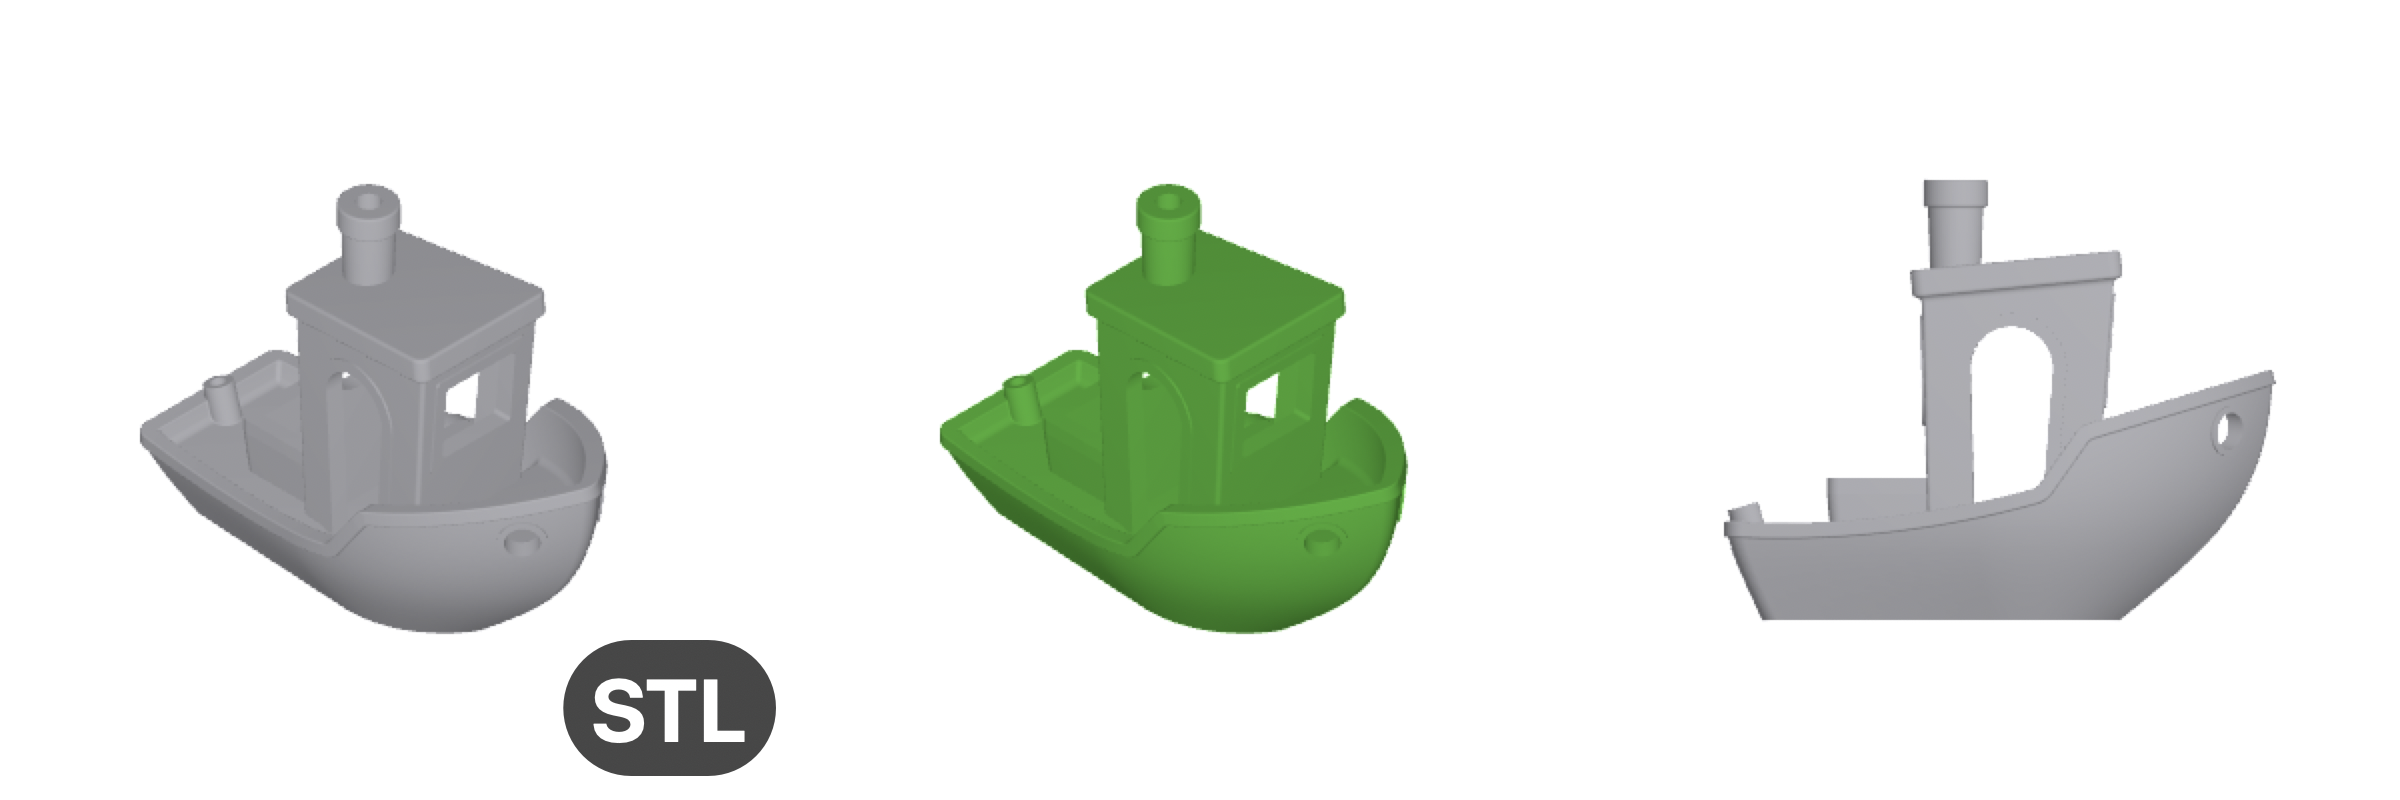
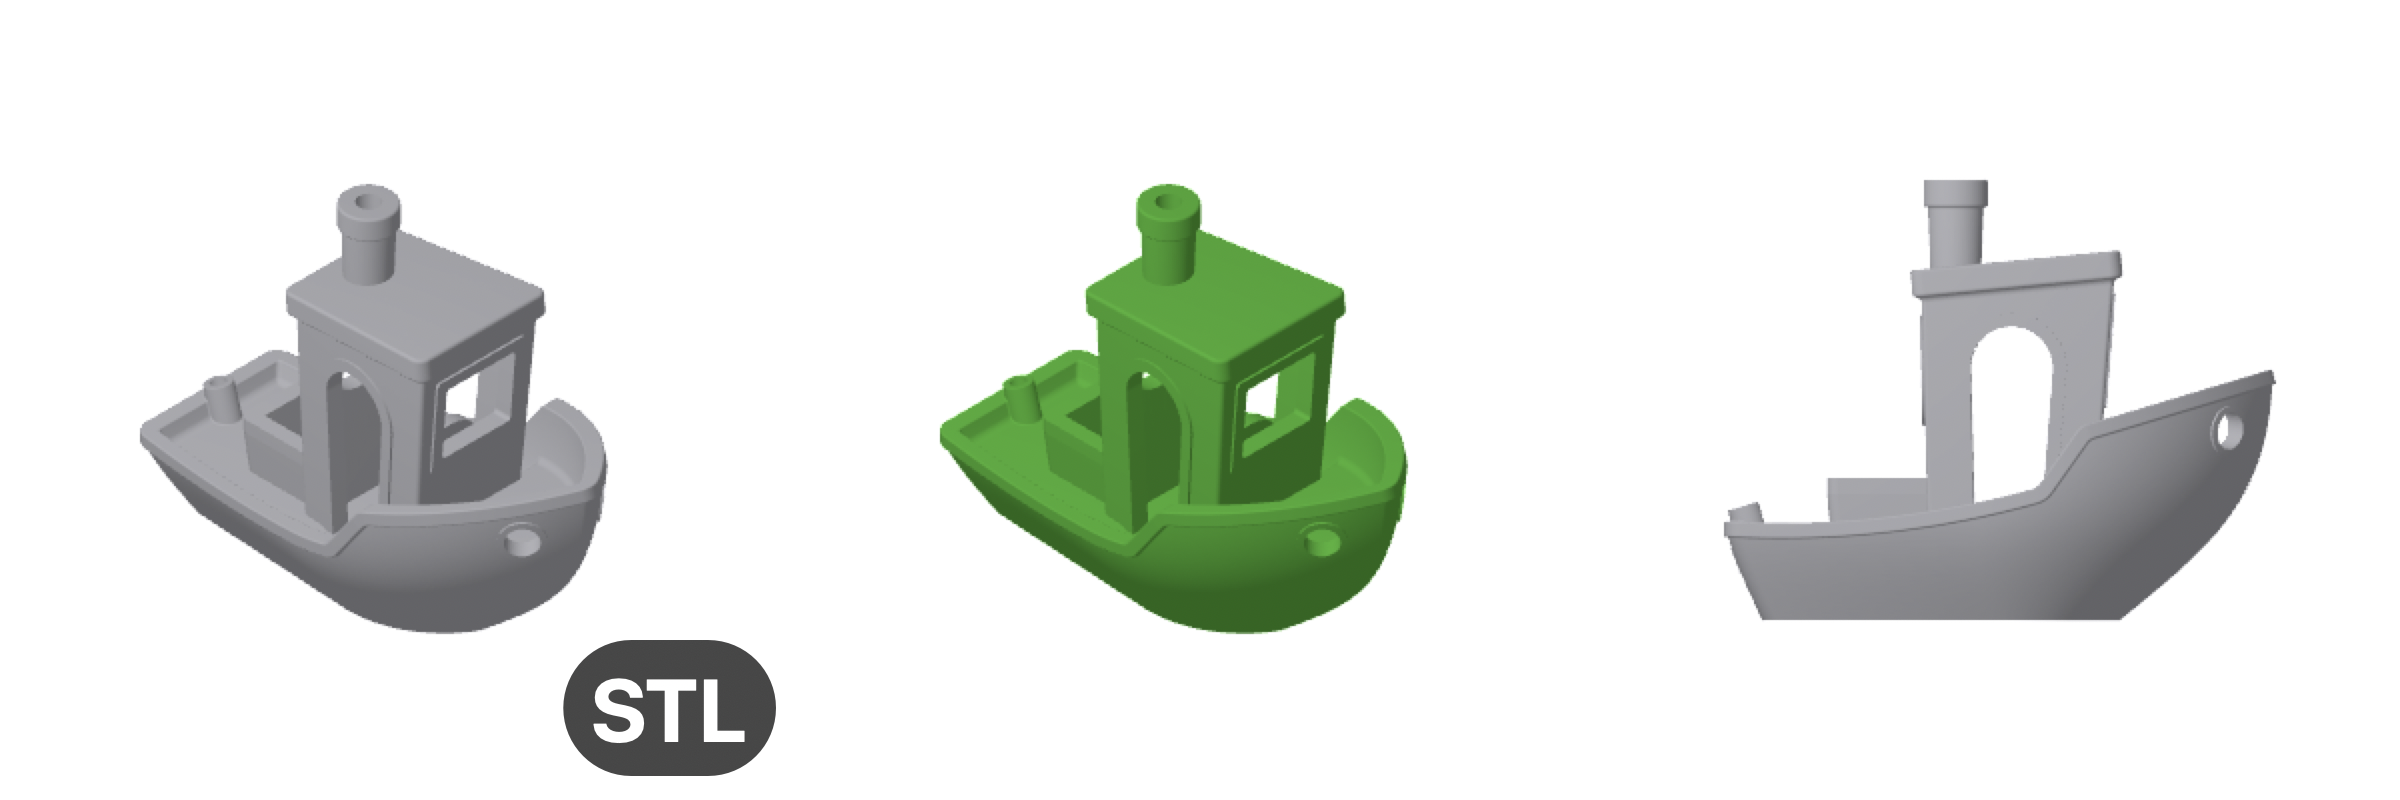
docs: per-type settings, ADR 0012 and updated recipes

diff --git a/README.md b/README.md
@@ -14,56 +14,62 @@ file's custom icon via `NSWorkspace.setIcon`.
 
 ```
 make build   # build/stler and build/STLer.app
-make test    # about 50 checks, no Xcode needed
+make test    # about 80 checks, no Xcode needed
 ```
 
 Only the Command Line Tools are required; the app is ad-hoc signed. `swift build` is not supported (see `docs/adr/0004-swiftc-and-make-no-xcode.md`).
 
+## Settings window
+
+`STLer.app` looks like System Settings: a sidebar with General, STL, 3MF and STEP (each type's tile has the type's colour and turns gray when the type is off). Each file type page has its own switch, view (isometric, front, back, left, right, top, bottom), projection (orthographic or perspective), colour and format label (position, text colour, background colour, corner radius, opacity), plus Clear and Apply buttons. General holds the scope the buttons work on (any number of chosen folders, or your home folder with a confirmation that shows the file count) and how deep `follow` goes. The preview on every page is 3DBenchy rendered with that page's settings.
+
 ## CLI
 
 ```
-stler [run] [--view V] [--color system|#RRGGBB] [--force|--no-force] [--depth N|deep]
-       [--badge off|topLeft|topRight|bottomLeft|bottomRight] [--dry-run] [<folder|file>...]
+stler [run] [--view V] [--projection orthographic|perspective] [--color system|#RRGGBB]
+      [--label off|topLeft|topRight|bottomLeft|bottomRight] [--depth N|deep] [--force] [--dry-run] [<folder|file>...]
 stler follow
 stler install | uninstall
-stler reset [--all] [<folder|file>...]
+stler reset <folder|file>...
 stler config get [key] | set <key> <value>
 ```
 
-- `run` without paths uses the folder open in Finder (fallback: cwd), then `watch` from the config.
-- `follow` polls the front Finder window and renders each newly opened folder down to `followDepth`.
+- `run` without paths uses the folder open in Finder (fallback: cwd). View flags change every enabled type for that run only.
+- `follow` polls the front Finder window and renders each newly opened folder down to `followDepth`; a long run gives way when you open another folder.
 - `install` copies the binary to `~/.local/bin/stler` and registers a LaunchAgent that keeps `follow` running at login; `uninstall` removes the agent.
-- Files already rendered with the same settings are skipped (signature in the `dev.stler.sig` xattr). `reset` removes only icons that carry that signature, never icons you set yourself.
+- Files already rendered with the same settings are skipped (signature in the `dev.stler.sig` xattr, one per type). `reset` removes only icons that carry that signature, never icons you set yourself.
 
 ## Config
 
-`~/.config/stler/config.json`, written by the settings window and by `stler config set`.
+`~/.config/stler/config.json`, written by the settings window and by `stler config set`. Settings are per file type; older files with global `view`, `color`, `formats` and `badge` keys are migrated when read.
 
 | key | values | default |
 | --- | --- | --- |
-| `view` | `iso`, `front`, `back`, `left`, `right`, `top`, `bottom` | `iso` |
-| `color` | `system` (system gray) or `#RRGGBB` | `system` |
-| `formats` | list of `stl`, `3mf`, `step` (`step` needs FreeCAD) | `stl`, `3mf` |
+| `<type>.enabled` | `stl`, `3mf`, `step` switch (`step` needs FreeCAD) | stl, 3mf on; step off |
+| `<type>.view` | `iso`, `front`, `back`, `left`, `right`, `top`, `bottom` | `iso` |
+| `<type>.projection` | `orthographic`, `perspective` | `orthographic` |
+| `<type>.color` | `system` (system gray) or `#RRGGBB` | per type: STL `#4f8ff7`, 3MF `#f59e42`, STEP `#a66cf0` |
+| `<type>.label.corner` | `off` or the corner of the format label | `bottomRight` |
+| `<type>.label.textColor` | `#RRGGBB` | `#ffffff` |
+| `<type>.label.backgroundColor` | `#RRGGBB` | `#262626` |
+| `<type>.label.cornerRadius` | 0 to 50, percent of the label height (50 = pill) | `50` |
+| `<type>.label.opacity` | 0 to 1, background and text together | `0.85` |
 | `firstPlateOnly` | bool, 3MF projects with several plates | `true` |
-| `force` | bool, re-render even if up to date | `false` |
 | `followDepth` | `1` (open folder only), `2`, `3`..., `0` = unlimited (`deep` in the CLI) | `3` |
-| `freecadPath` | path to `freecadcmd`, empty = `/Applications/FreeCAD.app/...` | empty |
-| `badge` | `off` or the corner of the format label | `bottomRight` |
-| `watch` | folders used by `reset --all` | empty |
-
-CLI flags override the config for one run.
+| `freecadPath` | path to `freecadcmd`; empty = look in the usual places (`/Applications`, `~/Applications`, Homebrew) | empty |
+| `scope`, `scopeFolders` | where the window's Clear and Apply work: `folder` with a list of folders (any number), or `home` | `folder`, empty list |
 
 ## Formats
 
 - STL (via ModelIO)
-- STEP/STP (optional): converted to a cached STL with FreeCAD's headless `freecadcmd`, one FreeCAD run per batch; the cache lives in `~/Library/Caches/stler`. Off by default, skipped with a message when FreeCAD is missing.
+- STEP/STP (optional): converted to a cached STL with FreeCAD's headless `freecadcmd`, one FreeCAD run per batch; the cache lives in `~/Library/Caches/stler`. Off by default and impossible to switch on while FreeCAD cannot be found: the STEP page of the settings window searches for it (usual places, then Spotlight), lets you choose it by hand, and keeps the type off without it.
 - 3MF: core spec, `components` with transforms, production-extension `p:path`
   (Bambu Studio, Orca, Prusa, Fusion). Only the first plate of a Bambu/Orca
   project is rendered; `support` objects are skipped.
 
 ## Tests
 
-`make test` compiles the core with `Tests/SelfCheck/main.swift` and runs the checks on temp files: config validation, folder depth, 3MF transforms and first-plate filtering, signature, and an end-to-end render/skip/reset run that also asserts the file's modification date survives. `STLER_CONFIG=/some/file.json` keeps experiments away from your real config.
+`make test` compiles the core with `Tests/SelfCheck/main.swift` and runs the checks on temp files: config validation and migration, folder depth, 3MF transforms and first-plate filtering, per-type signatures, orientation, label and projection checked on rendered pixels, and an end-to-end render/skip/reset run that also asserts the file's modification date survives. `STLER_CONFIG=/some/file.json` keeps experiments away from your real config.
 
 ## Documentation
 

diff --git a/docs/knowledge/workflow.md b/docs/knowledge/workflow.md
@@ -1,16 +1,17 @@
 # Workflow recipes
 
 ## Add a setting
-1. Property + doc comment in `Config`, a branch in `Config.set` with validation, tolerant decoding in `init(from:)`.
-2. Does it change the picture? Add it to `Signature.make`; if the renderer output itself changed, bump the `v` prefix.
-3. CLI: flag in `RunOptions` (if per-run) and the `usage` text. App: control in `SettingsView`.
-4. Self-check: validation, fallback, signature effect. README config table.
-5. ADR only if it is a real decision, not just a knob.
+1. Per-type setting: property + doc comment in `TypeStyle` (or `LabelStyle`), a branch in its `set` with validation, tolerant decoding in its `init(from:)`. Global setting: same in `Config`.
+2. Does it change the picture? Add it to `Signature.make` (per type); if the renderer output itself changed, bump the `v` prefix.
+3. CLI: dotted key works automatically through `Config.set`; add a flag in `RunOptions` only if it is useful per run, and update `usage`.
+4. App: a control on the type page in `SettingsView` (bindings go through `style`/`label` helpers).
+5. Self-check: validation, fallback, signature effect, and a pixel check if it changes the picture. README config table.
+6. ADR only if it is a real decision, not just a knob.
 
-## Add a file format
+## Add a file type
 1. Make the file readable as geometry (ModelIO, or a loader producing an `SCNNode`).
-2. Add the extension to `Config.supportedFormats`, `FileScanner.collect`, the `IconRenderer.loadScene` switch, and the sample picker in `SettingsModel`.
-3. Badge text defaults to the extension; override via `Options.badgeText` for aliases (`stp` shows `STEP`).
+2. `FileType` case (extensions, title), a `TypeStyle` field in `Config` with its `subscript` branch and `CodingKeys` entry, `IconRenderer.loadScene`, the sample picker in `SettingsModel`, an icon and tint in `SettingsView`.
+3. Label text is the type title; the old `step` style conversion path (`StepConverter`) is the pattern for formats that need a converter.
 4. Test with a real file from a real tool, plus a tiny generated one in the self-check.
 5. Write the format facts in `docs/knowledge/3mf-and-step.md` (or a new note) and an ADR if it brings a dependency.
 

diff --git a/docs/adr/0012-settings-per-file-type.md b/docs/adr/0012-settings-per-file-type.md
@@ -1,0 +1,23 @@
+# 0012. Settings per file type, label with its own style
+
+- Status: accepted
+- Date: 2026-11-17
+
+## Context
+
+One global look (view, colour, badge, formats list) is too coarse: STL, 3MF and STEP files are different things and people want them to look different (and to switch each on or off). The format label also needs its own colours, rounding and opacity. A first attempt at a tile style (background, corner radius, model opacity) was dropped: what was wanted were label settings.
+
+## Decision
+
+`Config` has one `TypeStyle` per file type (`stl`, `3mf`, `step`: `enabled`, `view`, `projection`, `color`, `label`) and `LabelStyle` (`corner`, `textColor`, `backgroundColor`, `cornerRadius`, `opacity`). Fixed fields rather than a dictionary, so the JSON stays an object (Swift encodes enum-keyed dictionaries as arrays). `Projection` (`orthographic`, `perspective`) joins the standard `ViewAngle` presets. The signature is per type, so changing one type never re-renders another.
+
+The window mirrors this: a System Settings style sidebar with a page per type, and a General page with the scope (a chosen folder or the home folder) and the follow depth. Each type page has Clear and Apply; Clear always confirms, Apply confirms for the home folder, both show the file count first. Apply renders only stale files, which covers every setting because the signature includes them. Removed: global `view/color/formats/badge`, `force` (CLI `--force` stays), `watch` (the scope replaces it).
+
+Older config files are migrated on read: the global view, colour and badge are copied to every type and `formats` becomes the enabled flags.
+
+## Consequences
+
+- Dotted CLI keys (`stl.view`, `3mf.enabled`, `step.label.textColor`); CLI view flags change every enabled type for one run.
+- A new file type means a `FileType` case, a `Config` field and a subscript branch.
+- One more mass re-render after the signature moved to `v5`.
+- The home-folder scope is powerful: the confirmation dialog is part of the feature, not decoration.

diff --git a/docs/architecture.md b/docs/architecture.md
@@ -25,17 +25,19 @@
 
 | Unit | Responsibility |
 | --- | --- |
-| `Config` | Settings model, validation (`set`), JSON persistence, tolerant decoding |
-| `ViewAngle`, `BadgeCorner` | Typed camera presets and label corners |
+| `Config`, `TypeStyle`, `LabelStyle` | Settings model per file type, validation (`set` with dotted keys), JSON persistence, tolerant decoding, migration of old files |
+| `FileType` | `stl`, `3mf`, `step`: extensions, title, lookup by path |
+| `ViewAngle`, `Projection`, `LabelCorner` | Typed camera presets, projection and label corners |
 | `FileScanner` | Recursive search with depth limit, top-level-first ordering, dedupe |
 | `FinderFolder` | Front Finder window via AppleScript (main thread only) |
-| `IconRenderer` | Model file to `NSImage`: material, orthographic camera, lights, optional badge |
+| `IconRenderer` | Model file to `NSImage`: material, orthographic or perspective camera, side light, then the format label (colours, radius, opacity) |
+| `FlatGeometry` | Triangle soup with one normal per triangle; shared by the STL and 3MF paths |
 | `ThreeMFLoader` | 3MF package to one SceneKit node (components, transforms, `p:path`, first plate) |
 | `StepConverter` | STEP to cached STL through `freecadcmd` |
-| `Signature` | `dev.stler.sig` xattr: which settings produced the current icon |
+| `Signature` | `dev.stler.sig` xattr: which settings of the file's type produced the current icon |
 | `IconBatch` | Apply / reset icons; the only place that writes icons |
 | `stler` CLI | Flag parsing and commands; the only place that prints |
-| `STLerApp` | SwiftUI window over the same `Config`; preview and buttons use `IconBatch` |
+| `STLerApp` | SwiftUI window in System Settings style (sidebar: General, one page per type) over the same `Config`; Clear and Apply use `IconBatch`, with confirmation and file counts |
 
 ## Data flow of one folder
 

diff --git a/docs/roadmap.md b/docs/roadmap.md
@@ -4,16 +4,12 @@ Last updated 2026-11-17.
 
 ## Needs the user
 - Run `stler install`, confirm the Finder Automation prompt, check `~/Library/Logs/stler.log` (agent code is untested).
-- Look at a real Finder icon with the badge and the fixed iso angle.
-- Re-render icons made before signature `v3` (they were rolled by an iso camera bug): `stler --force <folder>` or open the folder with `force` on.
+- Open the new settings window (sidebar layout, per-type pages, scope and confirmations) and check it feels right; I cannot see it.
+- Re-render icons made before signature `v5` (iso camera roll bug, on-axis light, global settings): press Apply on a type page, or `stler --force <folder>`.
 
 ## Next
-- Icon style settings: background colour, corner radius, model opacity and background opacity (all in `Config` and the signature, composed after the render, controls in the settings window and `stler config`). Open question: whether "opacity" should also cover the background (planned as two separate sliders).
-- Re-evaluate the front folder during a long run so switching windows re-prioritises the queue.
-- Screenshots for the README, then make the repo public.
-- Settings window: show progress for long batches.
-
-- STL files with zero facet normals render flat gray (seen with a generated test model; real exports usually carry normals). Recompute normals through ModelIO when they are missing.
+- Screenshots of the settings window for the README (needs a screenshot from the user), then make the repo public (the user's call).
+- LaunchAgent: `install` should migrate or warn about an agent installed under an older name.
 
 ## Maybe
 - Notarised app build (needs a paid Apple Developer account).

diff --git a/AGENTS.md b/AGENTS.md
@@ -10,7 +10,7 @@ A small macOS tool that renders isometric icons for `.stl`, `.3mf` and `.step` f
 
 ```
 make build   # build/stler (CLI) and build/STLer.app (settings window)
-make test    # about 50 checks, a few seconds
+make test    # about 80 checks, a few seconds
 ```
 
 You only need the Command Line Tools. Tests use temp files and a temp config, they never touch your files.
@@ -31,9 +31,9 @@ Keep directory names apart by more than case. APFS does not care about case and 
 - Small files, one main type per file, PascalCase file names.
 - Types and non-trivial functions get a `///` doc comment: one line of what it does, `- Parameter` and `- Returns` only when it is not obvious.
 - Inline comments only for the non-obvious why. If a comment repeats the code, delete it.
-- Typed values over strings (`ViewAngle`, `BadgeCorner`). Stateless services are `enum` namespaces.
+- Typed values over strings (`ViewAngle`, `Projection`, `LabelCorner`, `FileType`). Stateless services are `enum` namespaces.
 - Core returns results (`BatchResult`), it does not print.
-- A setting that changes the picture goes into `Signature.make`. If the renderer output itself changes, bump the version prefix there so old icons re-render.
+- Settings live per file type in `Config`. A setting that changes the picture goes into `Signature.make` (per type). If the renderer output itself changes, bump the version prefix there so old icons re-render.
 
 ## Things that already bit us
 

diff --git a/docs/adr/0006-step-via-optional-freecad.md b/docs/adr/0006-step-via-optional-freecad.md
@@ -9,7 +9,7 @@ STEP is B-rep (NURBS), not a mesh. macOS has no tessellator and writing one is o
 
 ## Decision
 
-STEP is a config format (`step`, off by default). When enabled, `freecadcmd` (auto-detected in `/Applications`, or `freecadPath`) converts a whole batch in one run to STL in `~/Library/Caches/stler`, keyed by path, modification time and size; the normal pipeline renders that STL with a `STEP` badge. Without FreeCAD the files are skipped with a message.
+STEP is a file type with its own switch (`step.enabled`, off by default). When enabled, `freecadcmd` (auto-detected in `/Applications`, or `freecadPath`) converts a whole batch in one run to STL in `~/Library/Caches/stler`, keyed by path, modification time and size; the normal pipeline renders that STL with a `STEP` badge. Without FreeCAD STEP cannot be switched on: `Config.set` refuses `step.enabled`, `enabledFormats` leaves STEP out, and the STEP page of the window searches for FreeCAD (usual places, then Spotlight `FreeCAD*.app`), offers a manual choice and keeps the toggle off and disabled until it is found.
 
 ## Consequences
 

diff --git a/docs/knowledge/macos-gotchas.md b/docs/knowledge/macos-gotchas.md
@@ -7,6 +7,11 @@
 - Finder caches the icons of an already open folder: leave and re-enter it, or `killall Finder` as a last resort. `qlmanage -r cache` resets the Quick Look cache.
 - Embedded thumbnails of `.3mf` (slicer plate previews) are shown by the system; a custom icon overrides them.
 
+## Rendering
+- ModelIO derives smooth normals from welded vertices when an STL has zero facet normals, so a cube comes out as one flat hexagon. We compute flat normals ourselves (`FlatGeometry`).
+- A light on the camera axis lights every face of an isometric cube equally. Keep the key light off-axis (upper left of the camera).
+- Opacity through SceneKit material transparency shows hidden faces through the model; apply it at composite time instead.
+
 ## Build and language
 - `swift build` fails on Command Line Tools only (manifest does not link `PackageDescription`).
 - `@State` is a macro in the current SDK and needs the Xcode-only `SwiftUIMacros` plugin: keep UI state in an `ObservableObject`.

diff --git a/docs/adr/0002-signature-xattr.md b/docs/adr/0002-signature-xattr.md
@@ -5,11 +5,11 @@
 
 ## Context
 
-Reruns must not re-render unchanged files, changing colour/view/badge must re-render only what is stale, and `reset` must never remove icons the user set by hand (a custom icon looks the same whether it is ours or not).
+Reruns must not re-render unchanged files, changing colour, view or label must re-render only what is stale, and `reset` must never remove icons the user set by hand (a custom icon looks the same whether it is ours or not).
 
 ## Decision
 
-Write `dev.stler.sig` (`v3|view|colour|firstPlateOnly|badge`) as an extended attribute on every file we touch. Same signature: skip. Different: re-render. No signature: not ours, never reset.
+Write `dev.stler.sig` as an extended attribute (originally one global string, now one per file type: `v5|<type>|view|projection|colour|...|label...`, see ADR 0012) on every file we touch. Same signature: skip. Different: re-render. No signature: not ours, never reset.
 
 ## Consequences
 

diff --git a/docs/adr/0008-config-json-single-source.md b/docs/adr/0008-config-json-single-source.md
@@ -9,7 +9,7 @@ Settings must be editable from a window and from the shell, and picked up by a l
 
 ## Decision
 
-`Config` (typed: `ViewAngle`, `BadgeCorner`, ...) is persisted as `~/.config/stler/config.json` (`STLER_CONFIG` overrides). The app saves on every change, `follow` reloads it per folder, CLI flags are applied to a copy for one run. Decoding is tolerant per key; validation lives in `Config.set`.
+`Config` (typed: `ViewAngle`, `LabelCorner`, per-type `TypeStyle`, ...) is persisted as `~/.config/stler/config.json` (`STLER_CONFIG` overrides). The app saves on every change, `follow` reloads it per folder, CLI flags are applied to a copy for one run. Decoding is tolerant per key; validation lives in `Config.set`.
 
 ## Consequences
 
